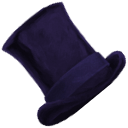
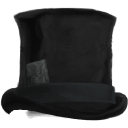
new high fidelity rabbit for the energy orb

diff --git a/src/main/java/theShowman/characters/ShowmanEnergyOrb.java b/src/main/java/theShowman/characters/ShowmanEnergyOrb.java
@@ -13,6 +13,8 @@ public class ShowmanEnergyOrb extends CustomEnergyOrb {
     private static final float ORB_IMG_SCALE;
     private static final String rabbitTextureString = "theShowmanResources/images/char/showmanCharacter/orb/rabbit.png";
     private static final Texture rabbitTexture = new Texture(rabbitTextureString);
+    private static final String hatBackString = "theShowmanResources/images/char/showmanCharacter/orb/orb_hat_back.png";
+    private static final Texture hatBackTexture = new Texture(hatBackString);
 
     private static final String[] orbTextures = {
             "theShowmanResources/images/char/showmanCharacter/orb/layer1.png",
@@ -49,16 +51,16 @@ public class ShowmanEnergyOrb extends CustomEnergyOrb {
                 this.angles[1] -= 360F;
             }
         }
-        if(this.angles[1] > 45 && this.angles[1] < 225)
+        if(this.angles[1] > 90 && this.angles[1] < 270)
         {
             renderRabbit = true;
-            if(this.angles[1] > 45 && this.angles[1] < 75)
+            if(this.angles[1] > 90 && this.angles[1] < 120)
             {
-                YShift = Interpolation.linear.apply(0, 100F, (this.angles[1]-45) / 30);
+                YShift = Interpolation.linear.apply(0, 85F, (this.angles[1]-90) / 30);
             }
-            else if(this.angles[1] > 195 && this.angles[1] < 225)
+            else if(this.angles[1] > 240 && this.angles[1] < 270)
             {
-                YShift = Interpolation.linear.apply(100F, 0, (this.angles[1]-195) / 30);
+                YShift = Interpolation.linear.apply(85F, 0, (this.angles[1]-240) / 30);
             }
         }
         else {
@@ -69,13 +71,15 @@ public class ShowmanEnergyOrb extends CustomEnergyOrb {
     @Override
     public void renderOrb(SpriteBatch sb, boolean enabled, float current_x, float current_y)
     {
+        sb.draw(hatBackTexture, current_x - 64F, current_y - 64F, 64.0F, 64.0F, 128.0F, 128.0F, ORB_IMG_SCALE, ORB_IMG_SCALE, this.angles[1], 0, 0, 128, 128, false, false);
+
         if(renderRabbit)
         {
             Vector2 vector = new Vector2(0, YShift);
-            vector.rotate(this.angles[1] - 135);
+            vector.rotate(this.angles[1] - 180);
             vector.scl(Settings.scale);
 
-            sb.draw(rabbitTexture, current_x - 64F + vector.x, current_y - 64F + vector.y, 64.0F, 64.0F, 128.0F, 128.0F, ORB_IMG_SCALE, ORB_IMG_SCALE, this.angles[1] - 135, 0, 0, 128, 128, false, false);
+            sb.draw(rabbitTexture, current_x - 64F + vector.x, current_y - 64F + vector.y, 64.0F, 64.0F, 128.0F, 128.0F, ORB_IMG_SCALE, ORB_IMG_SCALE, this.angles[1] - 180, 0, 0, 128, 128, false, false);
         }
         super.renderOrb(sb, enabled, current_x, current_y);
     }
